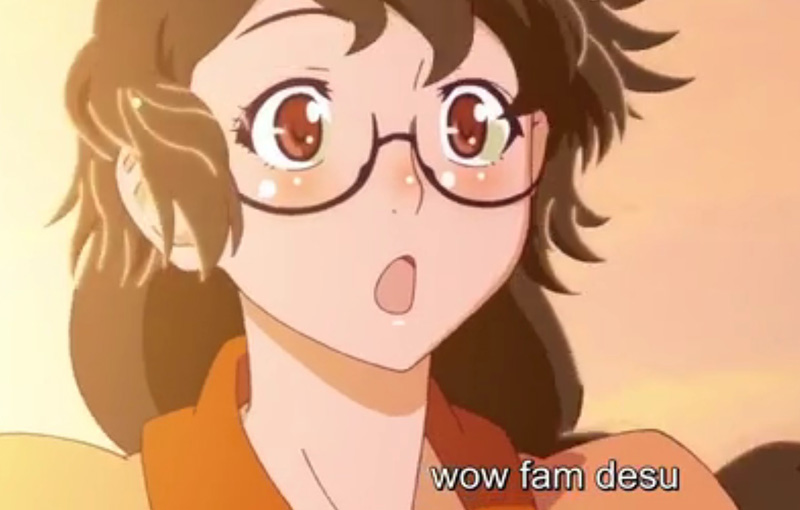
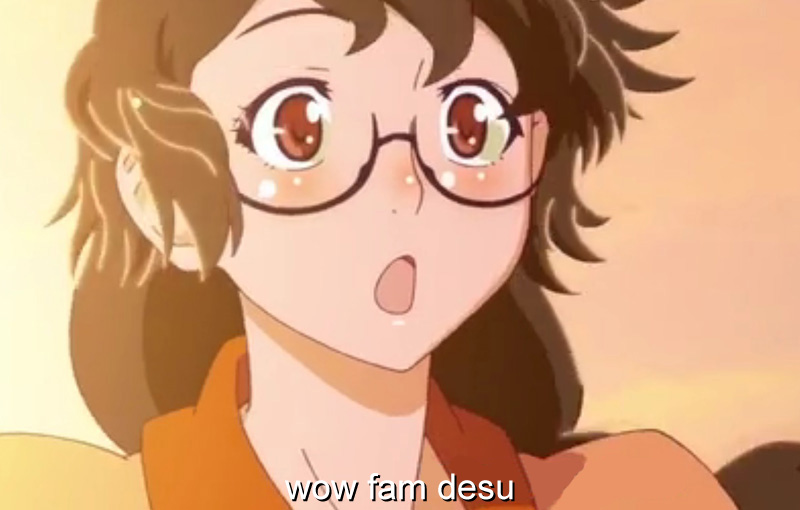
Fixed Tsubasa emote

Changed region(s): [[0.3438, 0.8824, 0.875, 1.0]]

diff --git a/_posts/2017-09-04-Kizu-Review.md b/_posts/2017-09-04-Kizu-Review.md
@@ -7,7 +7,7 @@ tags: [Book Reviews]
 image:
   feature: kizu01/Cover.jpg
 ---
-TLDR: Yeah, it actually turned out okay and if you don’t want to read the novel(which you should) this is a good alternative as it’s read to you.
+**TLDR: Yeah, it actually turned out okay and if you don’t want to read the novel this is a good alternative as it’s read to you.**
 
 
 So recently I listened to the Kizumonogatari audiobook done by Vertical. I have to say I’m surprised it came out better than I ever expected it to be. Maybe that in itself was what made the experience so positive? By not expecting much I was able to come away with more… well either way I’ll let you be the judge, let’s get on with the review of sorts. Though before we get started for anyone who hasn’t read Kizu(or at least watched the movies) this does include spoilers for Kizu. If you plan to read or listen then I’d suggest refering to the TDLR, read through the book, and come back and see how we compare on the voices and such.
@@ -66,7 +66,8 @@ Things I couldn’t fit into my review of sorts(spoilers tagged, hover to show):
 * One thing to note is unlike in the book where the ending focuses more on Hanekawa the movie version focuses more on Shinobu.
 
 
-* In Chapter 18 Oshino mentions that to a vampire sucking blood to create a minion could be considered an act on tier with sex… Thoughts Senjo ![Tsubasa](tsubasa.jpg)
+* In Chapter 18 Oshino mentions that to a vampire sucking blood to create a minion could be considered an act on tier with sex… Thoughts Senjo ![Tsubasa Emote](/assets/img/kizu01/Tsubasa.jpg)
+
 
 
 * “Because the evaluator of course didn’t work”... Your move movie :p
